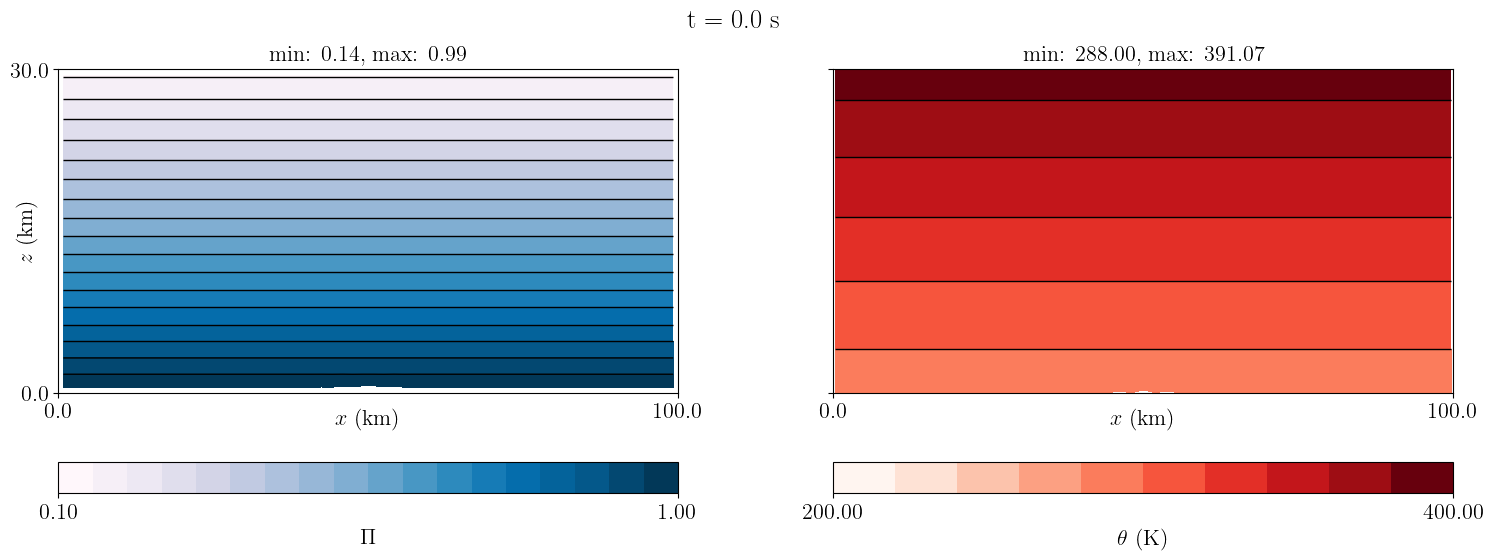
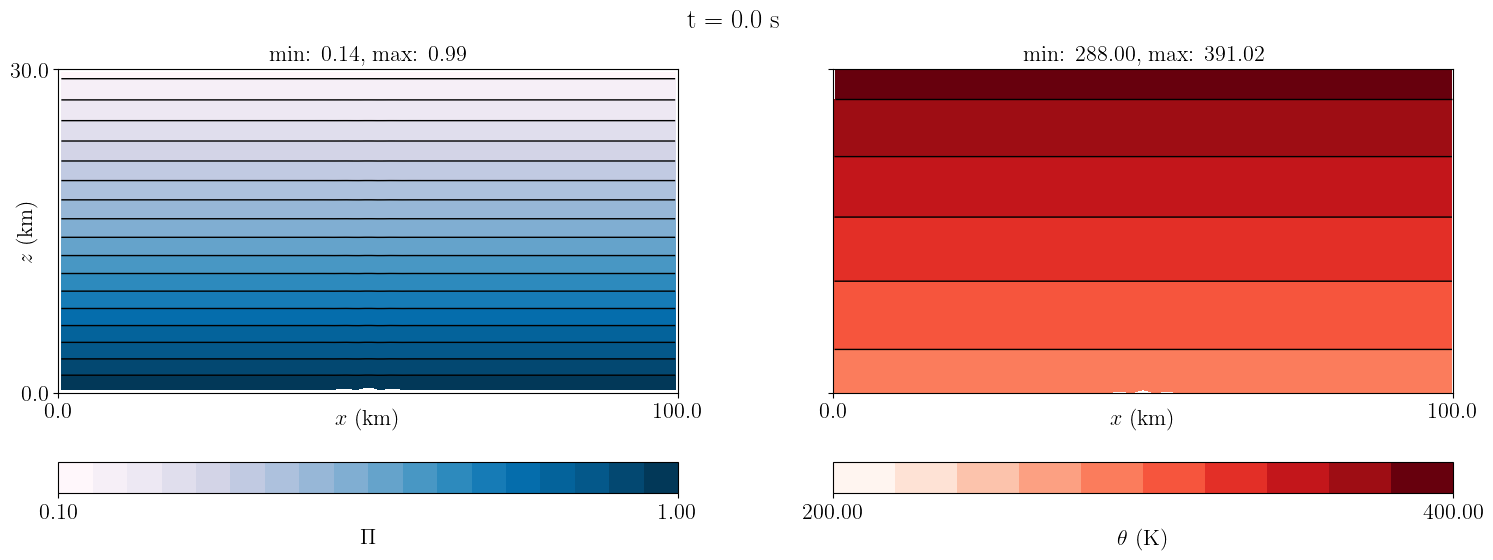
move hydrostatic params to file, neaten up spinup period and fix Schaer mountain

diff --git a/examples/compressible_euler/schaer_mountain.py b/examples/compressible_euler/schaer_mountain.py
@@ -12,7 +12,7 @@ from argparse import ArgumentParser, ArgumentDefaultsHelpFormatter
 
 from firedrake import (
     as_vector, VectorFunctionSpace, PeriodicIntervalMesh, ExtrudedMesh,
-    SpatialCoordinate, exp, pi, cos, Function, conditional, Mesh, Constant
+    SpatialCoordinate, exp, pi, cos, Function, Mesh, Constant
 )
 from gusto import (
     Domain, CompressibleParameters, CompressibleSolver, logger,
@@ -23,11 +23,11 @@ from gusto import (
 )
 
 schaer_mountain_defaults = {
-    'ncolumns': 60,
-    'nlayers': 30,
+    'ncolumns': 100,
+    'nlayers': 50,
     'dt': 8.0,
     'tmax': 5*60*60.,   # 5 hours
-    'dumpfreq': 2250,   # dump at 5 hours with default settings
+    'dumpfreq': 2250,   # dump at end with default settings
     'dirname': 'schaer_mountain'
 }
 
@@ -50,22 +50,22 @@ def schaer_mountain(
     a = 5000.                # scale width of mountain profile, in m
     lamda = 4000.            # scale width of individual mountains, in m
     hm = 250.                # height of mountain, in m
-    zh = 5000.               # height at which mesh is no longer distorted, in m
     Tsurf = 288.             # temperature of surface, in K
     initial_wind = 10.0      # initial horizontal wind, in m/s
     sponge_depth = 10000.0   # depth of sponge layer, in m
-    g = 9.80665              # acceleration due to gravity, in m/s^2
-    cp = 1004.               # specific heat capacity at constant pressure
-    sponge_mu = 1.2          # strength of sponge layer
+    g = 9.810616             # acceleration due to gravity, in m/s^2
+    cp = 1004.5              # specific heat capacity at constant pressure
+    mu_dt = 1.2              # strength of sponge layer, no units
     exner_surf = 1.0         # maximum value of Exner pressure at surface
-    max_iterations = 10      # maximum number of hydrostatic balance iterations
-    tolerance = 1e-7         # tolerance for hydrostatic balance iteration
+    max_iterations = 100     # maximum number of hydrostatic balance iterations
+    tolerance = 1e-12        # tolerance for hydrostatic balance iteration
 
     # ------------------------------------------------------------------------ #
     # Our settings for this set up
     # ------------------------------------------------------------------------ #
 
-    alpha = 0.55
+    spinup_steps = 5  # Not necessary but helps balance initial conditions
+    alpha = 0.51      # Necessary to absorb grid scale waves
     element_order = 1
     u_eqn_type = 'vector_invariant_form'
 
@@ -86,7 +86,7 @@ def schaer_mountain(
     x, z = SpatialCoordinate(ext_mesh)
     zs = hm * exp(-((x - xc)/a)**2) * (cos(pi*(x - xc)/lamda))**2
     xexpr = as_vector(
-        [x, conditional(z < zh, z + cos(0.5 * pi * z / zh)**6 * zs, z)]
+        [x, z + ((domain_height - z) / domain_height) * zs]
     )
 
     # Make new mesh
@@ -98,7 +98,7 @@ def schaer_mountain(
     # Equation
     parameters = CompressibleParameters(g=g, cp=cp)
     sponge = SpongeLayerParameters(
-        H=domain_height, z_level=domain_height-sponge_depth, mubar=sponge_mu/dt
+        H=domain_height, z_level=domain_height-sponge_depth, mubar=mu_dt/dt
     )
     eqns = CompressibleEulerEquations(
         domain, parameters, sponge_options=sponge, u_transport_option=u_eqn_type
@@ -141,7 +141,7 @@ def schaer_mountain(
     # Time stepper
     stepper = SemiImplicitQuasiNewton(
         eqns, io, transported_fields, transport_methods,
-        linear_solver=linear_solver, alpha=alpha, spinup_steps=5
+        linear_solver=linear_solver, alpha=alpha, spinup_steps=spinup_steps
     )
 
     # ------------------------------------------------------------------------ #
@@ -178,7 +178,8 @@ def schaer_mountain(
     bottom_boundary = Constant(exner_surf, domain=mesh)
     logger.info(f'Solving hydrostatic with bottom Exner of {exner_surf}')
     compressible_hydrostatic_balance(
-        eqns, theta_b, rho_b, exner, top=False, exner_boundary=bottom_boundary
+        eqns, theta_b, rho_b, exner, top=False, exner_boundary=bottom_boundary,
+        solve_for_rho=True
     )
 
     # Solve hydrostatic balance again, but now use minimum value from first
@@ -232,7 +233,7 @@ def schaer_mountain(
 
     theta0.assign(theta_b)
     rho0.assign(rho_b)
-    u0.project(as_vector([initial_wind, 0.0]), bcs=eqns.bcs['u'])
+    u0.project(as_vector([initial_wind, 0.0]))
 
     stepper.set_reference_profiles([('rho', rho_b), ('theta', theta_b)])
 

diff --git a/gusto/timestepping/semi_implicit_quasi_newton.py b/gusto/timestepping/semi_implicit_quasi_newton.py
@@ -114,12 +114,16 @@ class SemiImplicitQuasiNewton(BaseTimestepper):
         self.num_outer = num_outer
         self.num_inner = num_inner
         self.alpha = Constant(alpha)
-        self._alpha_original = Constant(alpha)
         self.predictor = predictor
         self.accelerator = accelerator
+
+        # Options relating to reference profiles and spin-up
+        self._alpha_original = Constant(alpha)
         self.reference_update_freq = reference_update_freq
         self.to_update_ref_profile = False
         self.spinup_steps = spinup_steps
+        self.spinup_begun = False
+        self.spinup_done = False
 
         # Flag for if we have simultaneous transport
         self.simult = False
@@ -359,13 +363,43 @@ class SemiImplicitQuasiNewton(BaseTimestepper):
             if float(self.t) + self.reference_update_freq > self.last_ref_update_time:
                 self.equation.X_ref.assign(self.x.n(self.field_name))
                 self.last_ref_update_time = float(self.t)
-                if hasattr(self.linear_solver, 'update_reference_profiles'):
-                    self.linear_solver.update_reference_profiles()
+                self.linear_solver.update_reference_profiles()
 
         elif self.to_update_ref_profile:
-            if hasattr(self.linear_solver, 'update_reference_profiles'):
-                self.linear_solver.update_reference_profiles()
-                self.to_update_ref_profile = False
+            self.linear_solver.update_reference_profiles()
+            self.to_update_ref_profile = False
+
+    def start_spinup(self):
+        """
+        Initialises the spin-up period, so that the scheme is implicit by
+        setting the off-centering parameter alpha to be 1.
+        """
+        logger.debug('Starting spin-up period')
+        # Update alpha
+        self.alpha.assign(1.0)
+        self.linear_solver.alpha.assign(1.0)
+        # We need to tell solvers that they may need rebuilding
+        self.linear_solver.update_reference_profiles()
+        self.forcing.solvers['explicit'].invalidate_jacobian()
+        self.forcing.solvers['implicit'].invalidate_jacobian()
+        # This only needs doing once, so update the flag
+        self.spinup_begun = True
+
+    def finish_spinup(self):
+        """
+        Finishes the spin-up period, returning the off-centering parameter
+        to its original value.
+        """
+        logger.debug('Finishing spin-up period')
+        # Update alpha
+        self.alpha.assign(self._alpha_original)
+        self.linear_solver.alpha.assign(self._alpha_original)
+        # We need to tell solvers that they may need rebuilding
+        self.linear_solver.update_reference_profiles()
+        self.forcing.solvers['explicit'].invalidate_jacobian()
+        self.forcing.solvers['implicit'].invalidate_jacobian()
+        # This only needs doing once, so update the flag
+        self.spinup_done = True
 
     def timestep(self):
         """Defines the timestep"""
@@ -383,13 +417,11 @@ class SemiImplicitQuasiNewton(BaseTimestepper):
         self.update_reference_profiles()
 
         # Are we in spin-up period? --------------------------------------------
-        if self.step < self.spinup_steps + 1:  # steps numbered from 1 onwards
-            self.alpha.assign(1.0)
-            self.linear_solver.alpha.assign(1.0)
-            logger.info('Spin-up step')
-        else:
-            self.alpha.assign(self._alpha_original)
-            self.linear_solver.alpha.assign(self._alpha_original)
+        # Note: steps numbered from 1 onwards
+        if self.step < self.spinup_steps + 1 and not self.spinup_begun:
+            self.start_spinup()
+        elif self.step >= self.spinup_steps + 1 and not self.spinup_done:
+            self.finish_spinup()
 
         # Slow physics ---------------------------------------------------------
         x_after_slow(self.field_name).assign(xn(self.field_name))

diff --git a/plotting/compressible_euler/plot_schaer_mountain.py b/plotting/compressible_euler/plot_schaer_mountain.py
@@ -15,7 +15,7 @@ from tomplot import (
     extract_gusto_coords, extract_gusto_field, reshape_gusto_data
 )
 
-test = 'schaer_mountain'
+test = 'schaer_alpha_0p51'
 
 # ---------------------------------------------------------------------------- #
 # Directory for results and plots
@@ -35,8 +35,8 @@ final_field_labels = [
     r'$w$ (m s$^{-1}$)', r'$\Delta\theta$ (K)'
 ]
 final_contours = [
-    np.linspace(-0.04, 0.04, 21), np.linspace(-0.025, 0.025, 21),
-    np.linspace(-0.04, 0.04, 21), np.linspace(-0.025, 0.025, 21)
+    np.linspace(-1.0, 1.0, 21), np.linspace(-1.0, 1.0, 21),
+    np.linspace(-1.0, 1.0, 21), np.linspace(-1.0, 1.0, 21)
 ]
 
 # ---------------------------------------------------------------------------- #
@@ -116,7 +116,7 @@ xlims_zoom = [30., 70.]
 ylims_zoom = [0., 12.]
 
 fig, axarray = plt.subplots(2, 2, figsize=(18, 12), sharex='row', sharey='row')
-time_idx = -1
+time_idx = 1
 
 for i, (ax, field_name, colour_scheme, field_label, contours) in \
         enumerate(zip(
@@ -129,24 +129,24 @@ for i, (ax, field_name, colour_scheme, field_label, contours) in \
     coords_X, coords_Y = extract_gusto_coords(data_file, field_name)
     time = data_file['time'][time_idx]
 
-    # Filter data for panels that are zoomed in mountain region
-    if i in [2, 3]:
-        data_dict = {
-            'X': coords_X,
-            'Y': coords_Y,
-            'field': field_data
-        }
-        data_frame = pd.DataFrame(data_dict)
+    # # Filter data for panels that are zoomed in mountain region
+    # if i in [2, 3]:
+    #     data_dict = {
+    #         'X': coords_X,
+    #         'Y': coords_Y,
+    #         'field': field_data
+    #     }
+    #     data_frame = pd.DataFrame(data_dict)
 
-        data_frame = data_frame[
-            (data_frame['X'] >= xlims_zoom[0])
-            & (data_frame['X'] <= xlims_zoom[1])
-            & (data_frame['Y'] >= ylims_zoom[0])
-            & (data_frame['Y'] <= ylims_zoom[1])
-        ]
-        field_data = data_frame['field'].values[:]
-        coords_X = data_frame['X'].values[:]
-        coords_Y = data_frame['Y'].values[:]
+    #     data_frame = data_frame[
+    #         (data_frame['X'] >= xlims_zoom[0])
+    #         & (data_frame['X'] <= xlims_zoom[1])
+    #         & (data_frame['Y'] >= ylims_zoom[0])
+    #         & (data_frame['Y'] <= ylims_zoom[1])
+    #     ]
+    #     field_data = data_frame['field'].values[:]
+    #     coords_X = data_frame['X'].values[:]
+    #     coords_Y = data_frame['Y'].values[:]
 
     field_data, coords_X, coords_Y = \
         reshape_gusto_data(field_data, coords_X, coords_Y)

diff --git a/gusto/solvers/parameters.py b/gusto/solvers/parameters.py
@@ -4,7 +4,7 @@ for particular kinds of system.
 """
 from gusto.core.function_spaces import is_cg
 
-__all__ = ['mass_parameters']
+__all__ = ['mass_parameters', 'hydrostatic_parameters']
 
 
 def mass_parameters(V, spaces=None, ignore_vertical=True):
@@ -97,3 +97,28 @@ def mass_parameters(V, spaces=None, ignore_vertical=True):
         }
 
     return parameters
+
+
+hydrostatic_parameters = {
+    'mat_type': 'matfree',
+    'ksp_type': 'preonly',
+    'pc_type': 'python',
+    'pc_python_type': 'firedrake.SCPC',
+    # Velocity mass operator is singular in the hydrostatic case.
+    # So for reconstruction, we eliminate rho into u
+    'pc_sc_eliminate_fields': '1, 0',
+    'condensed_field': {
+        'ksp_type': 'fgmres',
+        'ksp_rtol': 1.0e-8,
+        'ksp_atol': 1.0e-8,
+        'ksp_max_it': 100,
+        'pc_type': 'gamg',
+        'pc_gamg_sym_graph': True,
+        'mg_levels': {
+            'ksp_type': 'gmres',
+            'ksp_max_it': 5,
+            'pc_type': 'bjacobi',
+            'sub_pc_type': 'ilu'
+        }
+    }
+}

diff --git a/examples/compressible_euler/skamarock_klemp_nonhydrostatic.py b/examples/compressible_euler/skamarock_klemp_nonhydrostatic.py
@@ -26,7 +26,7 @@ from gusto import (
     logger, SUPGOptions, Perturbation, CompressibleParameters,
     CompressibleEulerEquations, HydrostaticCompressibleEulerEquations,
     compressible_hydrostatic_balance, RungeKuttaFormulation, CompressibleSolver,
-    SubcyclingOptions
+    SubcyclingOptions, hydrostatic_parameters
 )
 
 skamarock_klemp_nonhydrostatic_defaults = {
@@ -134,7 +134,13 @@ def skamarock_klemp_nonhydrostatic(
     ]
 
     # Linear solver
-    linear_solver = CompressibleSolver(eqns)
+    if hydrostatic:
+        linear_solver = CompressibleSolver(
+            eqns, solver_parameters=hydrostatic_parameters,
+            overwrite_solver_parameters=True
+        )
+    else:
+        linear_solver = CompressibleSolver(eqns)
 
     # Time stepper
     stepper = SemiImplicitQuasiNewton(
